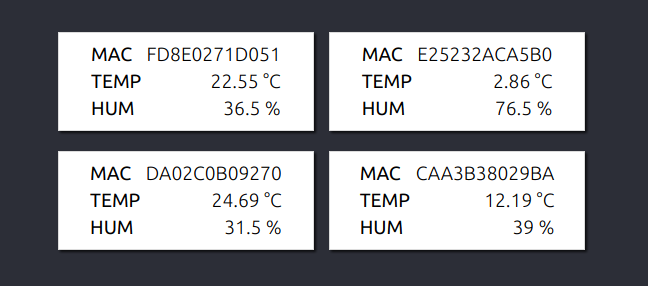
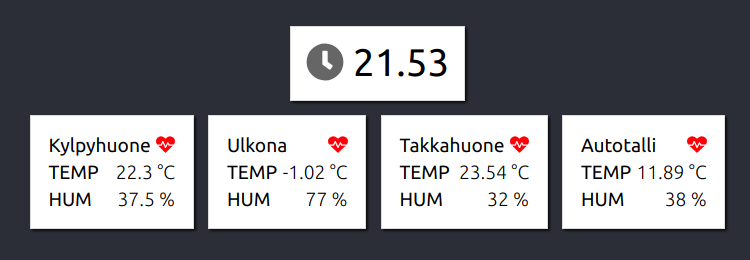
Add clock widget

diff --git a/frontend/src/widgets/ClockWidget.tsx b/frontend/src/widgets/ClockWidget.tsx
@@ -1,0 +1,45 @@
+import React, {Component} from 'react';
+import Panel from '../components/Panel';
+import {ClockIcon} from '../components/Icons';
+
+const UPDATE_INTERVAL = 1000;
+
+interface ClockWidgetState {
+  time: Date;
+}
+
+export default class ClockWidget extends Component<any, ClockWidgetState> {
+
+  state = {
+    time: new Date()
+  };
+
+  timeoutHandle: number | null = null;
+
+  updateTime = () => {
+    this.setState({ time: new Date() });
+  };
+
+  componentDidMount() {
+    window.setInterval(this.updateTime, UPDATE_INTERVAL);
+  }
+
+  componentWillUnmount() {
+    if (this.timeoutHandle) {
+      clearInterval(this.timeoutHandle);
+      this.timeoutHandle = null;
+    }
+  }
+
+  render() {
+    return (
+      <Panel>
+        <div style={{fontSize: '2rem'}}>
+          <ClockIcon />
+          {' '}
+          {this.state.time.toLocaleTimeString('fi-FI', {hour: '2-digit', minute:'2-digit'})}
+        </div>
+      </Panel>
+    );
+  }
+}

diff --git a/frontend/src/components/Icons.tsx b/frontend/src/components/Icons.tsx
@@ -1,0 +1,25 @@
+import { library } from '@fortawesome/fontawesome-svg-core'
+import {
+  faHeartbeat,
+  faClock
+} from '@fortawesome/free-solid-svg-icons';
+import { FontAwesomeIcon } from '@fortawesome/react-fontawesome';
+import React from 'react';
+
+library.add(
+  faHeartbeat,
+  faClock
+);
+
+const HeartbeatIcon = ({...props}) => <FontAwesomeIcon icon={faHeartbeat}
+                                                       color="#ee4422"
+                                                       {...props} />;
+
+const ClockIcon = ({...props}) => <FontAwesomeIcon icon={faClock}
+                                                   color="#666666"
+                                                   {...props} />;
+
+export {
+  HeartbeatIcon,
+  ClockIcon
+}

diff --git a/frontend/src/App.tsx b/frontend/src/App.tsx
@@ -1,13 +1,15 @@
 import React, { Component } from 'react';
 import './App.css';
 import SensorsWidget from './widgets/SensorsWidget';
-import './Icons.tsx';
+import './components/Icons.tsx';
+import ClockWidget from './widgets/ClockWidget';
 
 class App extends Component {
 
   render() {
     return (
       <div className="App">
+        <ClockWidget />
         <SensorsWidget />
       </div>
     );

diff --git a/frontend/src/widgets/SensorsWidget.tsx b/frontend/src/widgets/SensorsWidget.tsx
@@ -1,6 +1,6 @@
 import React, {Component} from 'react';
 import Panel from '../components/Panel';
-import HeartbeatIcon from '../components/HeartbeatIcon';
+import {HeartbeatIcon} from '../components/Icons';
 
 const UPDATE_INTERVAL = 5000;
 
